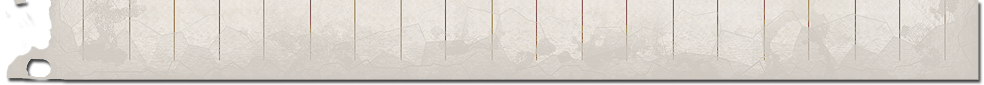
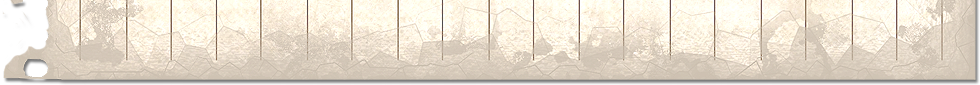
Graphic changes

diff --git a/public/css/main.css b/public/css/main.css
@@ -2,7 +2,7 @@ body {
   margin:           0;
   padding:          0;
   font-family:      'Roboto', tahoma, arial, sans-serif;
-  background-image: url("/images/body_background.jpg");
+  background-image: url("/images/graffiti_background.png");
   font-size:        11pt;
   }
 

diff --git a/resources/views/insangel.blade.php b/resources/views/insangel.blade.php
@@ -21,13 +21,13 @@
             }
 
         body {
-            background-image: url("{{ URL::asset('images/body_background.jpg') }}");
+            background-image: url("{{ URL::asset('images/graffiti_background.png') }}");
             }
 
         .container {
             padding:      0;
-            border:       12px solid transparent;
-            border-image: url("{{ URL::asset('images/dirt_border.png') }}") 12 12 repeat;
+            border:       18px solid transparent;
+            border-image: url("{{ URL::asset('images/dirt_border.png') }}") 18 18 repeat;
             }
 
         .body_text {
@@ -49,13 +49,6 @@
     @include('includes.menu')
 </div>
 
-<div class="container">
-    <div class="body_text">
-        @yield('admin_menu')
-        @yield('gig_menu')
-    </div>
-</div>
-
 @if(Session::has('message'))
     <div class="container">
         <div class="body_text">
@@ -72,12 +65,6 @@
             <div class="col-md-5">@yield('cover')</div>
         </div>
 
-    </div>
-</div>
-
-<div class="container">
-    <div class="body_text">
-        @include('includes.footer')
     </div>
 </div>
 
